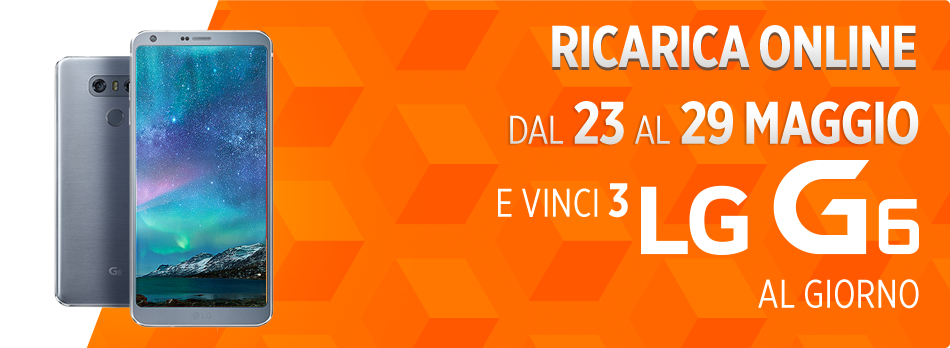
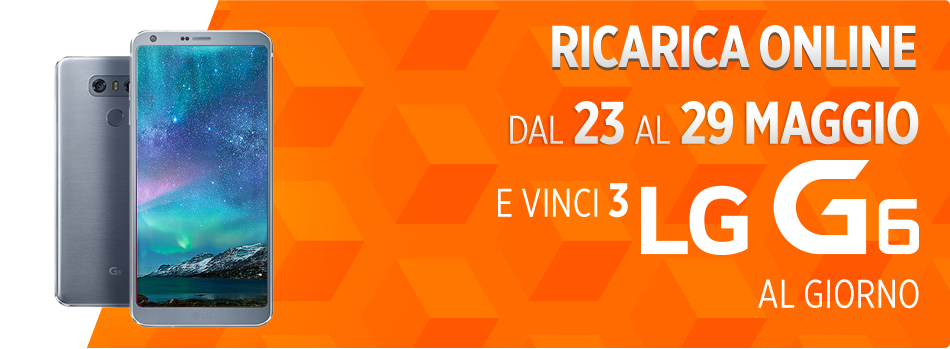
LP LG G6: update visore

diff --git a/canvass/concorso/concorso_ricarica_LG-G6_maggio-2017/css/landing_override.css b/canvass/concorso/concorso_ricarica_LG-G6_maggio-2017/css/landing_override.css
@@ -138,7 +138,7 @@
                 padding-right: 2rem;
             }
             #img-nova-1 {
-                padding-bottom: 2rem;
+                /*padding-bottom: 2rem;*/
             }
             #img-nova-2 {
                 max-width: 100%;
